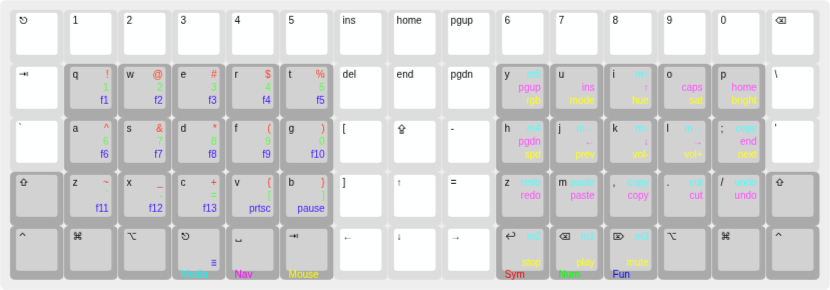
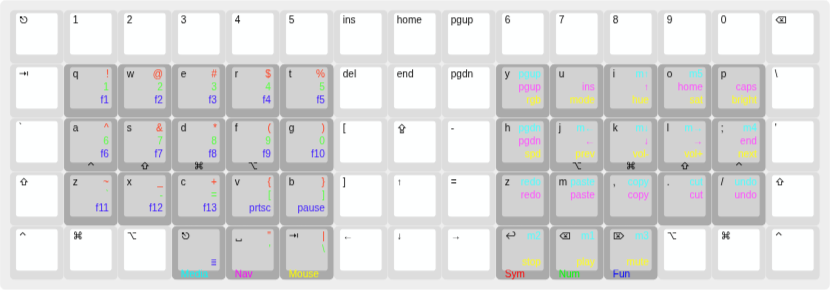
change nav,mouse; add hrm

diff --git a/id75/README.md b/id75/README.md
@@ -21,7 +21,7 @@ y           #ffff00
 
 ## 36 (44) key
 [![36](./36.png)](
-  https://keyboard-layout-editor.com/##@@_c=%23dddddd&f:2%3B&=%E2%8E%8B&=1&=2&=3&=4&=5&=ins&=home&=pgup&=6&=7&=8&=9&=0&=%E2%8C%AB%3B&@=%E2%87%A5&_c=%23aaaaaa&t=%23000000%0A%0A%23ff0000%0A%230000ff%0A%0A%0A%0A%2300ff00%3B&=q%0A%0A!%0Af1%0A%0A%0A%0A1&=w%0A%0A%2F@%0Af2%0A%0A%0A%0A2&=e%0A%0A%23%0Af3%0A%0A%0A%0A3&=r%0A%0A$%0Af4%0A%0A%0A%0A4&=t%0A%0A%25%0Af5%0A%0A%0A%0A5&_c=%23dddddd&t=%23000000%3B&=del&=end&=pgdn&_c=%23aaaaaa&t=%23000000%0A%0A%2300ffff%0A%23ffff00%0A%0A%0A%0A%23ff00ff%3B&=y%0A%0Am5%0Argb%0A%0A%0A%0Apgup&=u%0A%0A%0Amode%0A%0A%0A%0Ains&=i%0A%0Am%E2%86%91%0Ahue%0A%0A%0A%0A%E2%86%91&=o%0A%0A%0Asat%0A%0A%0A%0Acaps&=p%0A%0A%0Abright%0A%0A%0A%0Ahome&_c=%23dddddd&t=%23000000%3B&=%5C%3B&@=%60&_c=%23aaaaaa&t=%23000000%0A%0A%23ff0000%0A%230000ff%0A%0A%0A%0A%2300ff00%3B&=a%0A%0A%5E%0Af6%0A%0A%0A%0A6&=s%0A%0A%2F&%0Af7%0A%0A%0A%0A7&=d%0A%0A*%0Af8%0A%0A%0A%0A8&=f%0A%0A(%0Af9%0A%0A%0A%0A9&=g%0A%0A)%0Af10%0A%0A%0A%0A0&_c=%23dddddd&t=%23000000%3B&=%5B&=%E2%87%AA&=-&_c=%23aaaaaa&t=%23000000%0A%0A%2300ffff%0A%23ffff00%0A%0A%0A%0A%23ff00ff%3B&=h%0A%0Am4%0Aspd%0A%0A%0A%0Apgdn&=j%0A%0Am%E2%86%90%0Aprev%0A%0A%0A%0A%E2%86%90&=k%0A%0Am%E2%86%93%0Avol-%0A%0A%0A%0A%E2%86%93&=l%0A%0Am%E2%86%92%0Avol+%0A%0A%0A%0A%E2%86%92&=%2F%3B%0A%0Acopy%0Anext%0A%0A%0A%0Aend&_c=%23dddddd&t=%23000000%3B&='%3B&@_c=%23aaaaaa&t=%23000000%0A%0A%23ff0000%0A%230000ff%0A%0A%0A%0A%2300ff00%3B&=%E2%87%A7&=z%0A%0A~%0Af11%0A%0A%0A%0A%60&=x%0A%0A%2F_%0Af12%0A%0A%0A%0A-&=c%0A%0A+%0Af13%0A%0A%0A%0A%2F=&=v%0A%0A%7B%0Aprtsc%0A%0A%0A%0A%5B&=b%0A%0A%7D%0Apause%0A%0A%0A%0A%5D&_c=%23dddddd&t=%23000000%3B&=%5D&=%E2%86%91&=%2F=&_c=%23aaaaaa&t=%23000000%0A%0A%2300ffff%0A%23ffff00%0A%0A%0A%0A%23ff00ff%3B&=z%0A%0Aredo%0A%0A%0A%0A%0Aredo&=m%0A%0Apaste%0A%0A%0A%0A%0Apaste&=,%0A%0Acopy%0A%0A%0A%0A%0Acopy&=.%0A%0Acut%0A%0A%0A%0A%0Acut&=%2F%2F%0A%0Aundo%0A%0A%0A%0A%0Aundo&=%E2%87%A7%3B&@_t=%23000000%0A%0A%23ff0000%0A%230000ff%0A%0A%0A%0A%2300ff00%3B&=%E2%8C%83&=%E2%8C%98&=%E2%8C%A5&_t=%23000000%0A%0A%23ff0000%0A%230000ff%0A%2300ffff%0A%0A%0A%2300ff00&a:0%3B&=%E2%8E%8B%0A%0A%0A%E2%89%A3%0AMedia&_t=%23000000%0A%0A%23ff0000%0A%230000ff%0A%23ff00ff%0A%0A%0A%2300ff00%3B&=%E2%90%A3%0A%0A%0A%0ANav&_t=%23000000%0A%0A%23ff0000%0A%230000ff%0A%23ffff00%0A%0A%0A%2300ff00%3B&=%E2%87%A5%0A%0A%0A%0AMouse&_c=%23dddddd&t=%23000000&a:4%3B&=%E2%86%90&=%E2%86%93&=%E2%86%92&_c=%23aaaaaa&t=%23000000%0A%0A%2300ffff%0A%23ffff00%0A%23ff0000%0A%0A%0A%23ff00ff&a:0%3B&=%E2%86%A9%0A%0Am2%0Astop%0ASym&_t=%23000000%0A%0A%2300ffff%0A%23ffff00%0A%2300ff00%0A%0A%0A%23ff00ff%3B&=%E2%8C%AB%0A%0Am1%0Aplay%0ANum&_t=%23000000%0A%0A%2300ffff%0A%23ffff00%0A%230000ff%0A%0A%0A%23ff00ff%3B&=%E2%8C%A6%0A%0Am3%0Amute%0AFun&_t=%23000000%0A%0A%2300ffff%0A%23ffff00%0A%0A%0A%0A%23ff00ff&a:4%3B&=%E2%8C%A5&=%E2%8C%98&=%E2%8C%83
+  https://keyboard-layout-editor.com/##@@_c=%23dddddd&f:2%3B&=%E2%8E%8B&=1&=2&=3&=4&=5&=ins&=home&=pgup&=6&=7&=8&=9&=0&=%E2%8C%AB%3B&@=%E2%87%A5&_c=%23aaaaaa&t=%23000000%0A%0A%23ff0000%0A%230000ff%0A%0A%0A%0A%2300ff00%3B&=q%0A%0A!%0Af1%0A%0A%0A%0A1&=w%0A%0A%2F@%0Af2%0A%0A%0A%0A2&=e%0A%0A%23%0Af3%0A%0A%0A%0A3&=r%0A%0A$%0Af4%0A%0A%0A%0A4&=t%0A%0A%25%0Af5%0A%0A%0A%0A5&_c=%23dddddd&t=%23000000%3B&=del&=end&=pgdn&_c=%23aaaaaa&t=%23000000%0A%0A%2300ffff%0A%23ffff00%0A%0A%0A%0A%23ff00ff%3B&=y%0A%0Apgup%0Argb%0A%0A%0A%0Apgup&_t=%23000000%0A%0A%0A%23ffff00%0A%0A%0A%0A%23ff00ff%3B&=u%0A%0A%0Amode%0A%0A%0A%0Ains&_t=%23000000%0A%0A%2300ffff%0A%23ffff00%0A%0A%0A%0A%23ff00ff%3B&=i%0A%0Am%E2%86%91%0Ahue%0A%0A%0A%0A%E2%86%91&=o%0A%0Am5%0Asat%0A%0A%0A%0Ahome&_t=%23000000%0A%0A%0A%23ffff00%0A%0A%0A%0A%23ff00ff%3B&=p%0A%0A%0Abright%0A%0A%0A%0Acaps&_c=%23dddddd&t=%23000000%3B&=%5C%3B&@=%60&_c=%23aaaaaa&t=%23000000%0A%0A%23ff0000%0A%230000ff%0A%0A%0A%0A%2300ff00%3B&=a%0A%0A%5E%0Af6%0A%E2%8C%83%0A%0A%0A6&=s%0A%0A%2F&%0Af7%0A%E2%87%A7%0A%0A%0A7&=d%0A%0A*%0Af8%0A%E2%8C%98%0A%0A%0A8&=f%0A%0A(%0Af9%0A%E2%8C%A5%0A%0A%0A9&=g%0A%0A)%0Af10%0A%0A%0A%0A0&_c=%23dddddd&t=%23000000%3B&=%5B&=%E2%87%AA&=-&_c=%23aaaaaa&t=%23000000%0A%0A%2300ffff%0A%23ffff00%0A%0A%0A%0A%23ff00ff%3B&=h%0A%0Apgdn%0Aspd%0A%0A%0A%0Apgdn&=j%0A%0Am%E2%86%90%0Aprev%0A%E2%8C%A5%0A%0A%0A%E2%86%90&=k%0A%0Am%E2%86%93%0Avol-%0A%E2%8C%98%0A%0A%0A%E2%86%93&=l%0A%0Am%E2%86%92%0Avol+%0A%E2%87%A7%0A%0A%0A%E2%86%92&=%2F%3B%0A%0Am4%0Anext%0A%E2%8C%83%0A%0A%0Aend&_c=%23dddddd&t=%23000000%3B&='%3B&@=%E2%87%A7&_c=%23aaaaaa&t=%23000000%0A%0A%23ff0000%0A%230000ff%0A%0A%0A%0A%2300ff00%3B&=z%0A%0A~%0Af11%0A%0A%0A%0A%60&=x%0A%0A%2F_%0Af12%0A%0A%0A%0A-&=c%0A%0A+%0Af13%0A%0A%0A%0A%2F=&=v%0A%0A%7B%0Aprtsc%0A%0A%0A%0A%5B&=b%0A%0A%7D%0Apause%0A%0A%0A%0A%5D&_c=%23dddddd&t=%23000000%3B&=%5D&=%E2%86%91&=%2F=&_c=%23aaaaaa&t=%23000000%0A%0A%2300ffff%0A%0A%0A%0A%0A%23ff00ff%3B&=z%0A%0Aredo%0A%0A%0A%0A%0Aredo&=m%0A%0Apaste%0A%0A%0A%0A%0Apaste&=,%0A%0Acopy%0A%0A%0A%0A%0Acopy&=.%0A%0Acut%0A%0A%0A%0A%0Acut&=%2F%2F%0A%0Aundo%0A%0A%0A%0A%0Aundo&_c=%23dddddd&t=%23000000%3B&=%E2%87%A7%3B&@=%E2%8C%83&=%E2%8C%98&=%E2%8C%A5&_c=%23aaaaaa&t=%23000000%0A%0A%0A%230000ff%0A%2300ffff&a:0%3B&=%E2%8E%8B%0A%0A%0A%E2%89%A3%0AMedia&_t=%23000000%0A%0A%23ff0000%0A%0A%23ff00ff%0A%0A%0A%2300ff00%3B&=%E2%90%A3%0A%0A%22%0A%0ANav%0A%0A%0A'&_t=%23000000%0A%0A%23ff0000%0A%0A%23ffff00%0A%0A%0A%2300ff00%3B&=%E2%87%A5%0A%0A%7C%0A%0AMouse%0A%0A%0A%5C&_c=%23dddddd&t=%23000000&a:4%3B&=%E2%86%90&=%E2%86%93&=%E2%86%92&_c=%23aaaaaa&t=%23000000%0A%0A%2300ffff%0A%23ffff00%0A%23ff0000&a:0%3B&=%E2%86%A9%0A%0Am2%0Astop%0ASym&_t=%23000000%0A%0A%2300ffff%0A%23ffff00%0A%2300ff00%3B&=%E2%8C%AB%0A%0Am1%0Aplay%0ANum&_t=%23000000%0A%0A%2300ffff%0A%23ffff00%0A%230000ff%3B&=%E2%8C%A6%0A%0Am3%0Amute%0AFun&_c=%23dddddd&t=%23000000&a:4%3B&=%E2%8C%A5&=%E2%8C%98&=%E2%8C%83
 )
 
 ## 34 key
